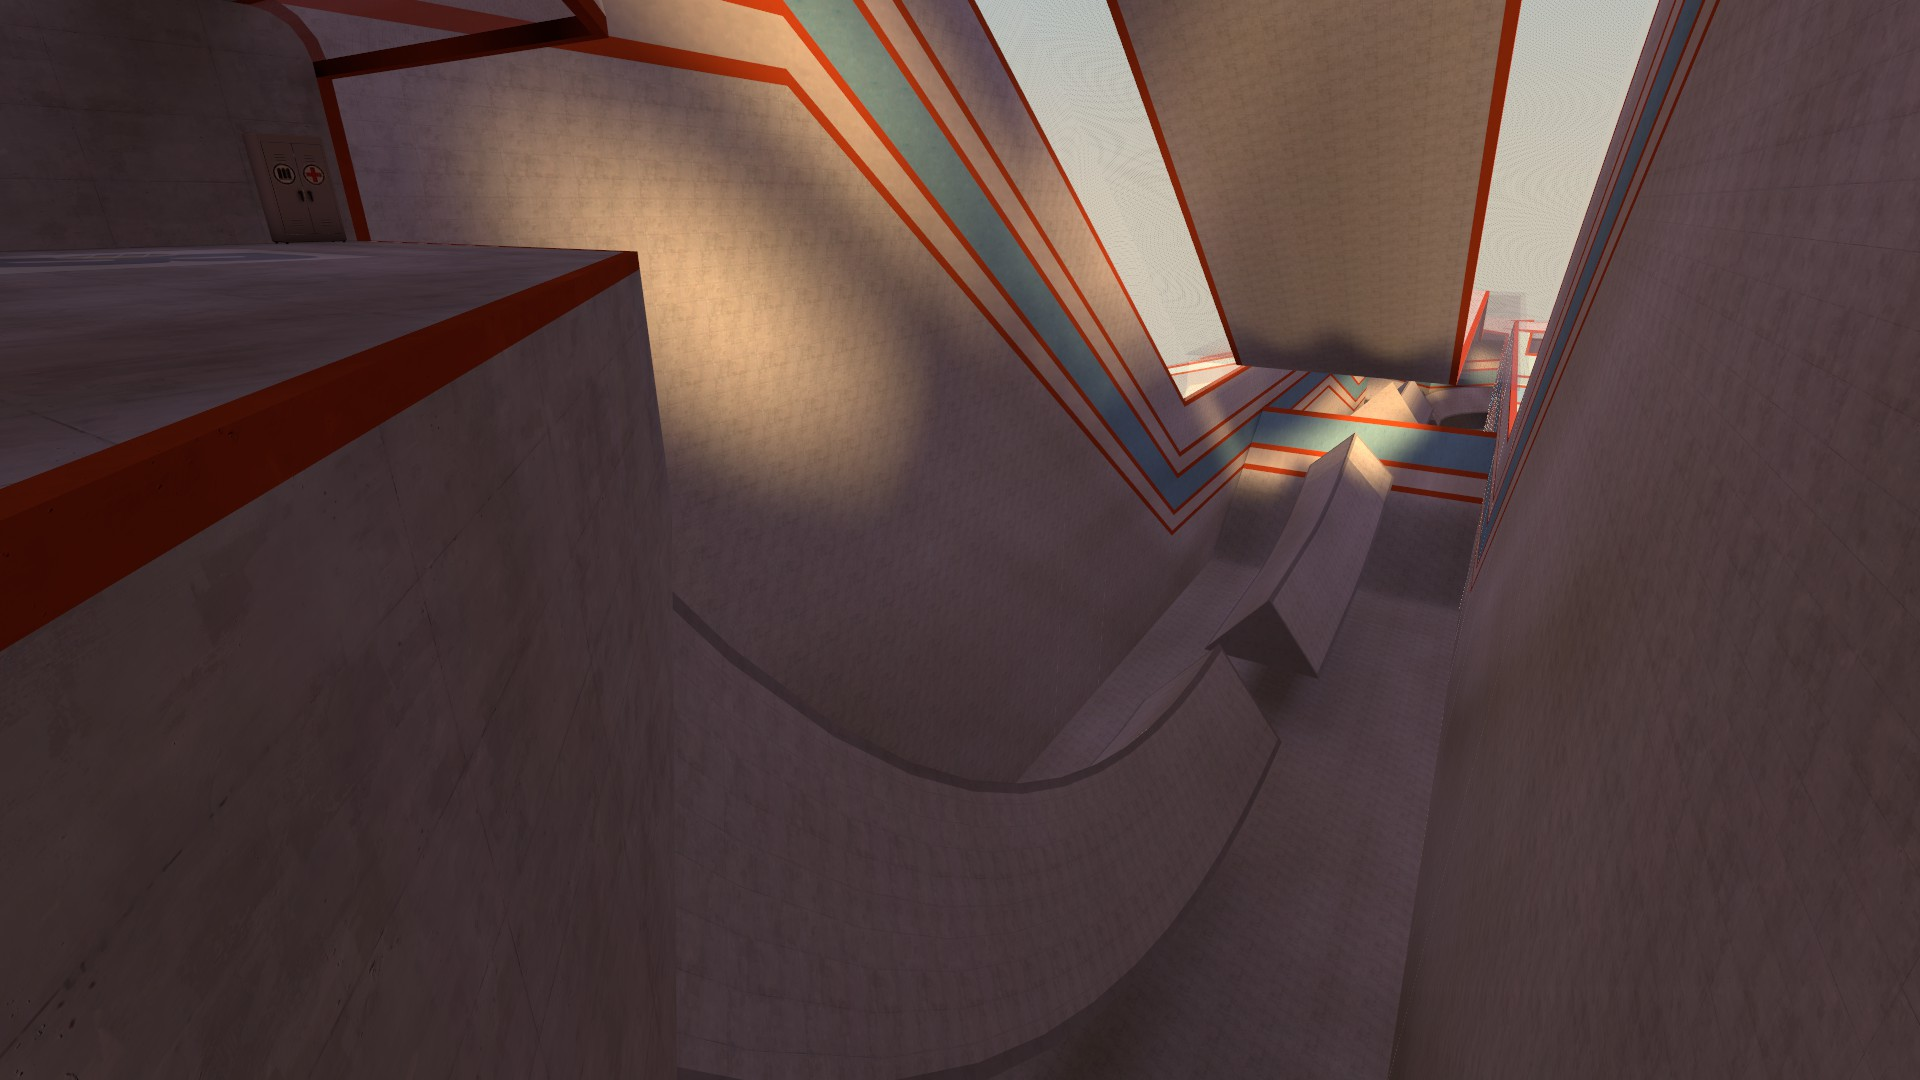
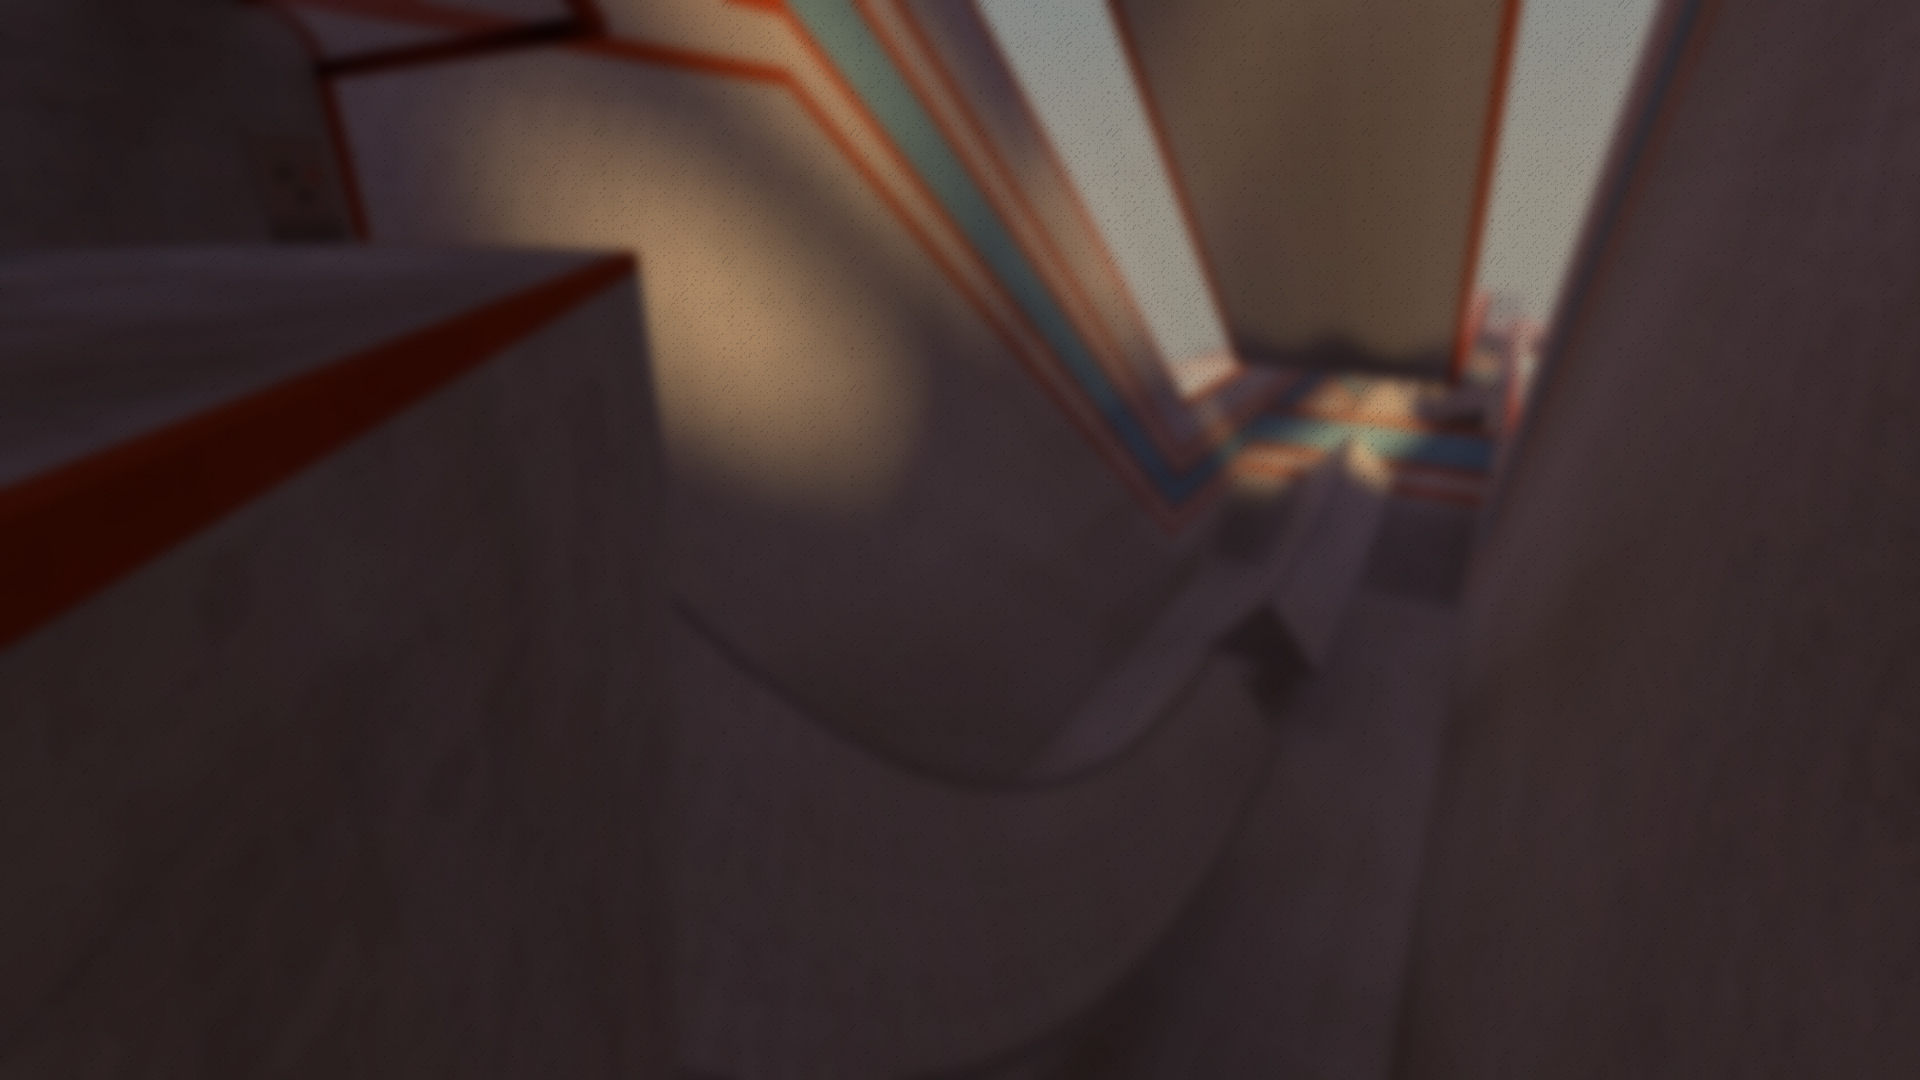
Restyle main menu

diff --git a/code/UI/GameMenu/StrafeMenu.razor.scss b/code/UI/GameMenu/StrafeMenu.razor.scss
@@ -4,73 +4,90 @@
 @import "Styles/_common.scss";
 
 StrafeMainMenu {
-    background-color: $bg-light;
+    background-color: rgba(black .7);
     color: $foreground;
     font-family: Ubuntu;
     flex-direction: column;
     flex-grow: 1;
     font-size: 16px;
+    background-image: url(ui/menu-background.jpg);
+    background-repeat: no-repeat;
+    background-tint: rgba($lightaccent .1);
 
     &.ingame {
         background-image: none;
-        background-color: transparent;
-
-        .content {
-            background-color: rgba( $bg-light, .96 );
-            backdrop-filter: blur(8px);
-        }
+        background-color: rgba( black, .56 );
+        backdrop-filter: blur(12px);
     }
 
     .navbar {
-        background-color: $bg-dark;
-        box-shadow: 4px 4px 30px rgba(black .65);
-        gap: 1px;
+        background-color: $bg-dark-darker;
+        box-shadow: 5px 5px 15px rgba(black .25);
         align-items: center;
+        height: 80px;
+        margin: 40px;
         flex-shrink: 0;
-        border-bottom: 1px solid black;
-        height: 60px;
+        border-radius: $radius;
+        justify-content: center;
 
-        nav, button {
+        .disconnect {
+            position: absolute;
+            right: 32px;
+            height: 40px;
+        }
+
+        nav {
             height: 100%;
             padding: 0px 20px;
             align-items: center;
-            font-size: 20px;
-            text-transform: uppercase;
+            font-size: 22px;
+            font-weight: 400;
             cursor: pointer;
-            color: #d6d6d6;
+            color: $foreground-faded;
             transition: all .08s ease;
-            border: 2px solid transparent;
+            border-bottom: 3px solid transparent;
             padding: 10px 20px;
+            flex-direction: row;
+            gap: 10px;
+
+            iconify {
+                width: 24px;
+                height: 24px;
+            }
 
             &:hover {
-                border-color: $lightaccent;
-                background-color: rgba($lightaccent, .1);
+                border-color: lighten( $bg-light, 15% );
+                color: $foreground;
             }
 
             &.active {
-                background-color: $lightaccent;
-                color: $bg-dark;
+                border-color: $lightaccent;
+                color: white;
+            }
+
+            &:active {
+                border-color: white;
             }
         }
     }
 
     .content {
         flex-grow: 1;
-        background-color: $bg-light;
         border-radius: 0 0 4px 4px;
-        box-shadow: 4px 4px 30px rgba(black .5);
-        //padding: 40px;
-    }
-
-    .sidebar {
-        padding: 20px;
-        background-color: $bg-dark;
-        border-right: 1px solid black;
-        box-shadow: 0px 10px 30px rgba(black .65);
+        padding: 40px;
+        padding-top: 0;
     }
 
     .body {
         padding: 20px;
+        border-radius: $radius;
+    }
+
+    .sidebar {
+        padding: 20px;
+        background-color: $bg-dark-darker;
+        box-shadow: 5px 5px 15px rgba(black .25);
+        border-radius: $radius;
     }
 
     .logo {
@@ -80,6 +97,8 @@ StrafeMainMenu {
         margin-right: 40px;
         margin-left: 40px;
         opacity: .5;
+        position: absolute;
+        left: 0;
 
         &:hover {
             opacity: 1;

diff --git a/code/UI/GameMenu/MapsPage.razor.scss b/code/UI/GameMenu/MapsPage.razor.scss
@@ -8,7 +8,6 @@ MapsPage {
         width: 100%;
         mask-image: linear-gradient( to bottom, white 0%, white 93%, grey 98%, black 100% );
         justify-content: center;
-        margin-top: 50px;
     }
 
     .form-row {
@@ -23,7 +22,6 @@ MapEntry {
     margin-bottom: 20px;
     cursor: pointer;
     flex-direction: column;
-    box-shadow: 2px 2px 2px rgba(black, 1);
 
     &:last-child {
         margin-bottom: 100px;
@@ -35,30 +33,45 @@ MapEntry {
         background-size: cover;
         background-position: center;
         background-repeat: no-repeat;
+        box-shadow: 4px 4px 8px rgba(black, .5);
+        border-radius: $radius;
+        flex-shrink: 0;
     }
 
     &:hover {
-        .info {
-            background-color: $lightaccent;
+        color: white;
+
+        .thumb {
+            filter: contrast(1.02);
         }
     }
 
     .info {
         padding: 8px;
         flex-grow: 1;
-        border-top: 1px solid rgba(black .8);
-        background-color: rgba(black .8);
         flex-direction: column;
-        align-items: center;
         text-shadow: 1px 1px 1px black;
+        position: absolute;
+        bottom: 0;
+        background-color: rgba(black, .75);
+        width: 100%;
 
         .title {
-            font-weight: heavy;
             margin-bottom: 4px;
+            color: white;
         }
 
-        .author {
-            color: $foreground-faded;
+        .author-bar {
+            align-items: center;
+            gap: 5px;
+        }
+
+        .author-icon {
+            width: 22px;
+            height: 22px;
+            background-size: 100%;
+            background-repeat: no-repeat;
+            border-radius: 50%;
         }
     }
 }

diff --git a/code/UI/GameMenu/ServersPage.razor.scss b/code/UI/GameMenu/ServersPage.razor.scss
@@ -8,43 +8,47 @@
 .server-list {
     flex-direction: column;
     overflow-y: scroll;
+    gap: 10px;
 }
 
 ServerEntry {
-    padding: 10px;
+    padding: 15px;
     flex-shrink: 0;
-    font-size: 16px;
-    border-bottom: 1px solid rgba($bg-dark, .35);
-    color: $foreground;
     cursor: pointer;
+    background-color: $bg-dark;
+    border-radius: $radius;
 
     &:hover {
         background-color: $bg-dark-hover;
     }
 
     &.active {
-        background-color: $bg-dark;
+        background-color: $bg-dark-active;
     }
 
     .title {
-        font-weight: heavy;
         font-size: 20px;
         margin-bottom: 4px;
     }
 
     .map {
         color: $foreground-faded;
+        align-items: center;
+    }
+
+    .name {
+        flex-direction: column;
     }
 
     .meta {
         flex-direction: row;
         gap: 8px;
+        align-items: center;
 
         .tag {
             padding: 4px 12px;
             background-color: rgba( $foreground-faded, .15 );
             border-radius: $radius;
-            align-self: flex-start;
             font-size: 15px;
 
             &.success {

diff --git a/code/UI/GameMenu/Styles/_vars.scss b/code/UI/GameMenu/Styles/_vars.scss
@@ -1,7 +1,9 @@
 
-$bg-dark: #0f212e;
-$bg-light: #1f3340;
-$bg-dark-hover: lighten($bg-light, 55%);
+$bg-dark: #39424a;
+$bg-dark-darker: darken( $bg-dark, 25% );
+$bg-light: #585b62;
+$bg-dark-hover: lighten($bg-dark, 45%);
+$bg-dark-active: lighten($bg-dark, 65%);
 
 $bg: #45515d;
 $lightbg: #454545;
@@ -10,15 +12,15 @@ $orange: #e9b437;
 $yellow: #f6f25a;
 $green: #37e956; 
 $red: #e93737;
-$lightaccent: #1d8fe1;
+$lightaccent: #17c7ab;
 $darkaccent: darken($lightaccent, 10%);
 $purple: #c741cc;
-$foreground: #e1e1e1;
-$foreground-faded: #aaaaaa;
+$foreground: #c8d0d6;
+$foreground-faded: #a3a3a3;
 
 $largeradius: 5px;
 $smallradius: 1px;
-$radius: 2px;
+$radius: 4px;
 $paddingsmall: 8px;
 $paddingmedium: 15px;
 

diff --git a/code/UI/GameMenu/Styles/_common.scss b/code/UI/GameMenu/Styles/_common.scss
@@ -112,13 +112,15 @@ button {
     padding: 10px 20px;
     border-radius: 4px;
     background-color: $bg-dark;
+    flex-direction: row;
+    gap: 10px;
 
     &:hover:not(.disabled) {
         border-color: $lightaccent;
         background-color: rgba($lightaccent, .1);
     }
 
-    &.active, &:active {
+    &.active {
         background-color: $lightaccent;
         color: $bg-dark;
     }
@@ -133,12 +135,11 @@ button {
 
         &:hover {
             background-color: $lightaccent;
-            color: $bg-dark;
         }
     }
 
     &.disabled {
-        opacity: .5;
+        opacity: .35;
         cursor: default;
         pointer-events: none;
     }

diff --git a/code/UI/GameMenu/MapSingle.razor.scss b/code/UI/GameMenu/MapSingle.razor.scss
@@ -2,7 +2,7 @@
 @import "Styles/_vars.scss";
 
 .scroll-y {
-    mask-image: linear-gradient( to top, white 0%, white 93%, grey 98%, black 100% );
+    mask-image: linear-gradient( to bottom, white 0%, white 93%, grey 98%, black 100% );
 }
 
 .thumbnail {
